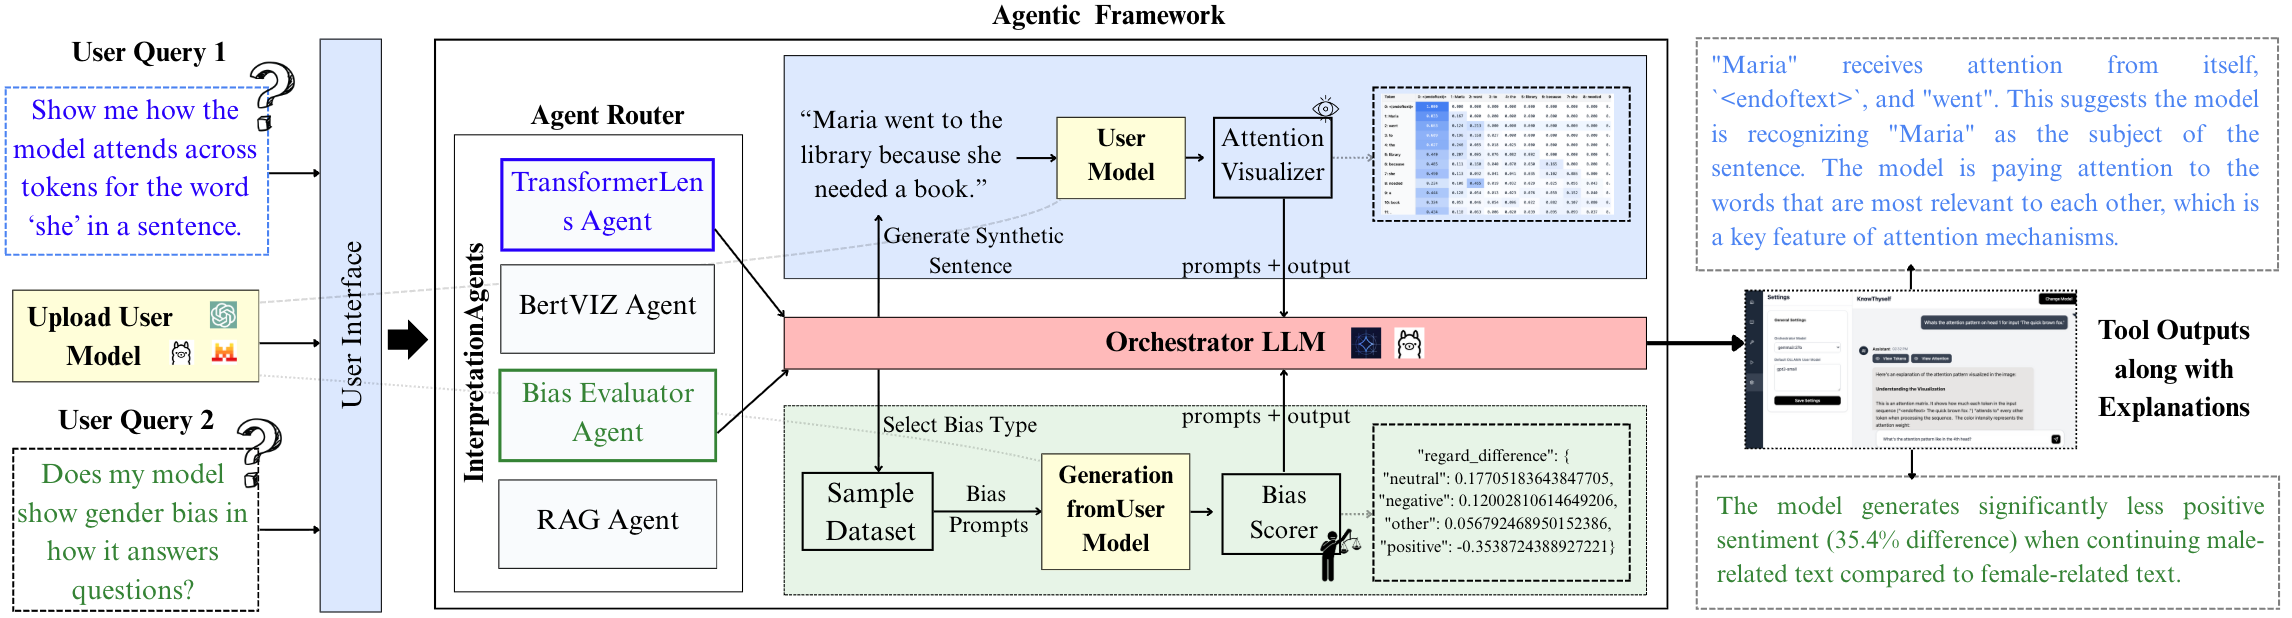
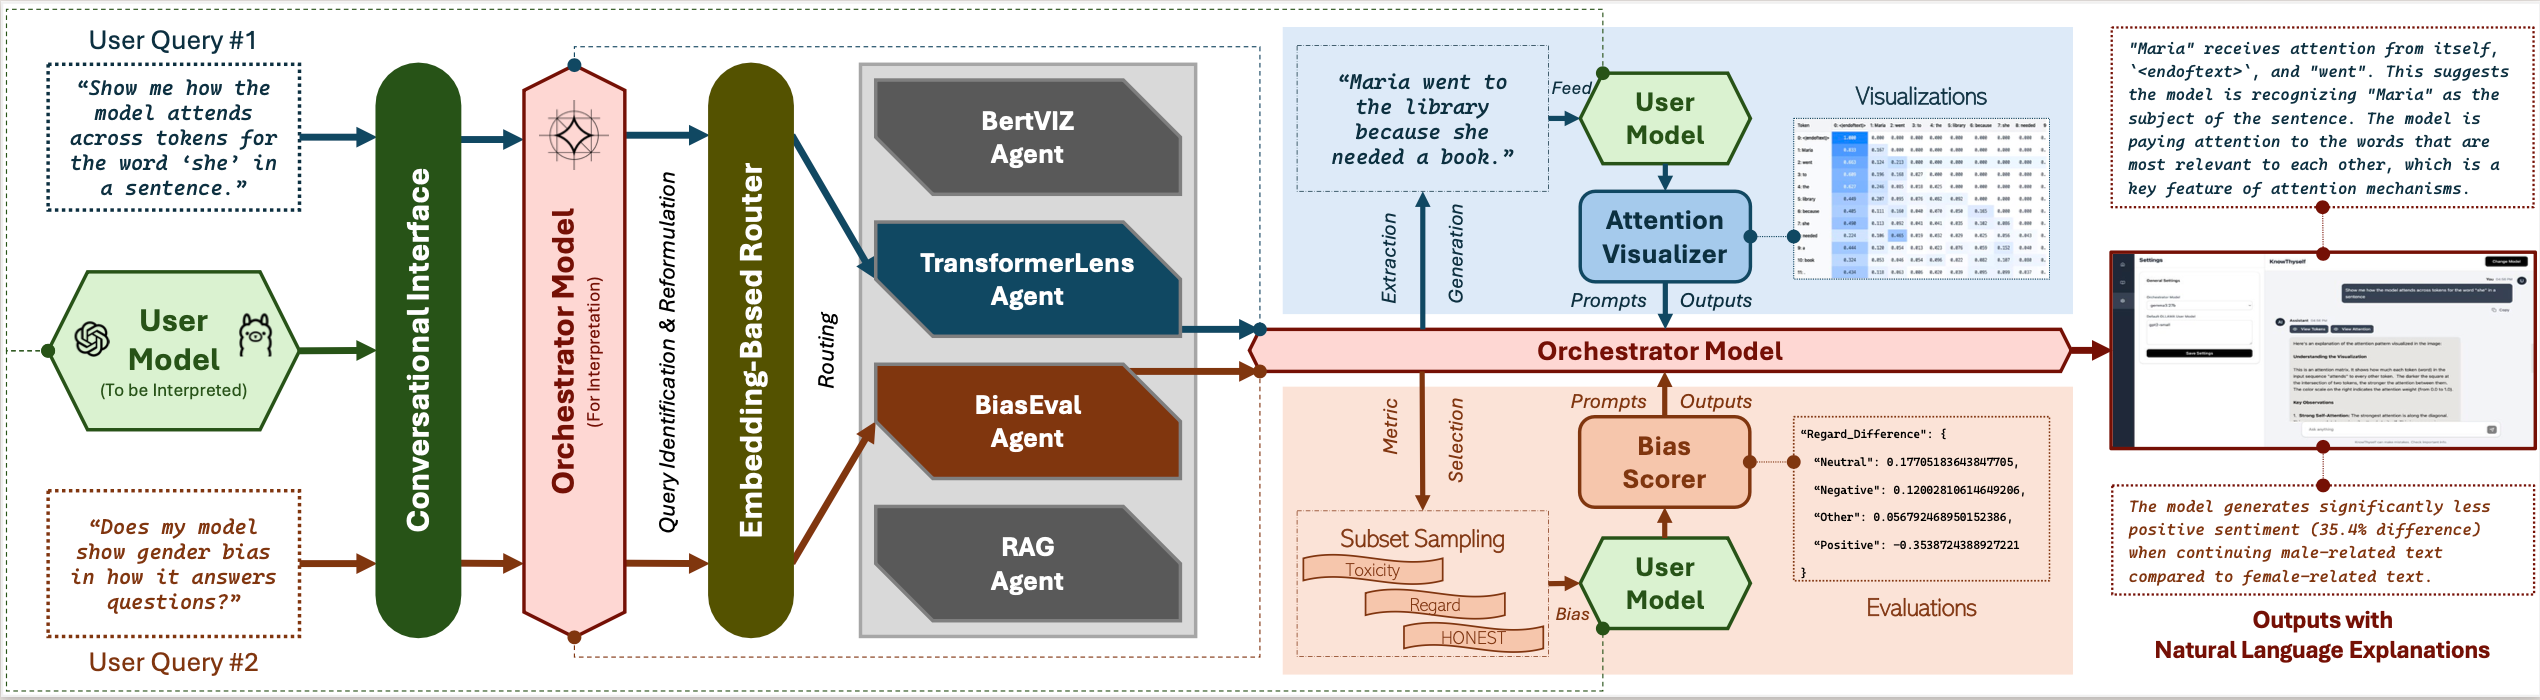
updated arch diag

diff --git a/README.md b/README.md
@@ -4,8 +4,7 @@ Overview
 KnowThyself helps students, engineers, and researchers explore how language models work. Users upload a model, ask natural-language questions, and receive interactive visualizations with grounded explanations. A supervisor LLM routes tasks to modular tool agents (TransformerLens, BertViz, Bias Evaluator), while a RAG component cites relevant interpretability literature. The system supports local deployment (e.g., Ollama) and common open-model families (e.g., GPT-2, Llama).
 
 <!-- <img width="1140" alt="image" src="https://github.com/Gentopia-AI/Gentopia/assets/65674752/8cb8ec87-6e50-44d5-aedc-c4994e9a8aa2"> -->
-<!-- ![KnowThyself Architecture Diagram](src/assets/knowthyself_arch_diag.png) -->
-![KnowThyself Architecture Diagram](src/assets/Overall-Fig.pdf)
+![KnowThyself Architecture Diagram](src/assets/knowthyself_arch_diag.png)
 
 
 Live Demo: http://34.229.129.135:4173